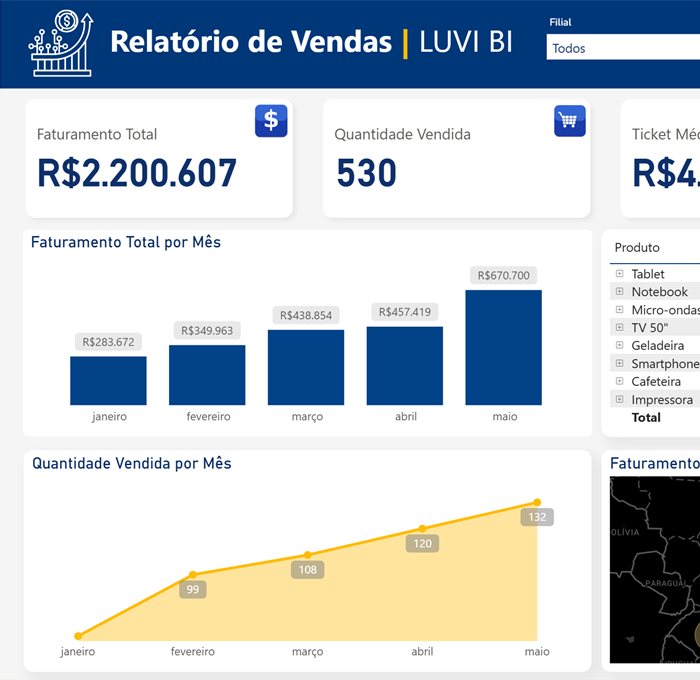
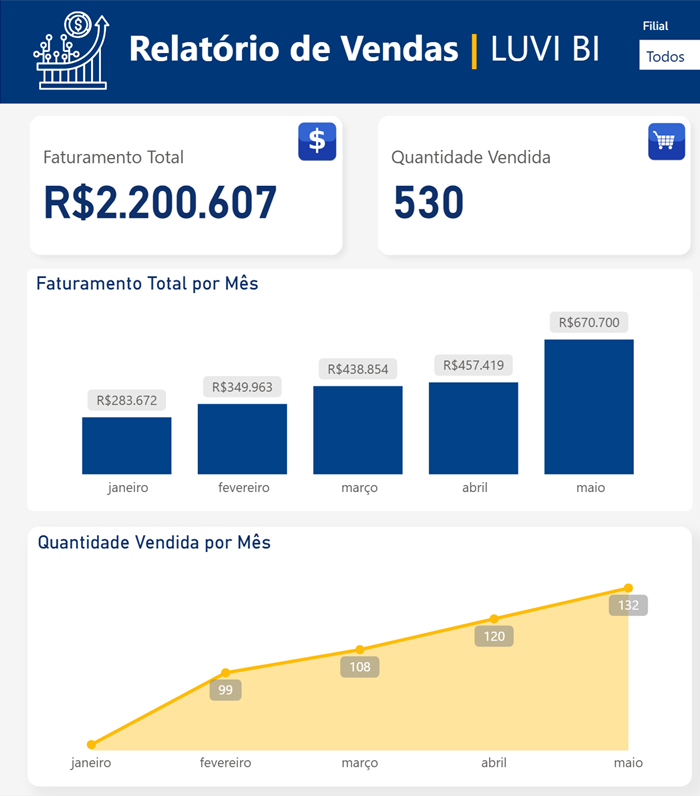
21321

diff --git a/index.html b/index.html
@@ -50,6 +50,15 @@
   .hero__kicker { display: flex; align-items: center; gap: 8px; font-size: 14px; font-weight: 500; color: #f0c964; }
   .hero__kicker .dot { background: #e6b53c; }
   h1 em { font-style: normal; color: #f0c964; }
+  /* the three reference sites show the dashboard in a device: a dark tablet bezel drawn over the edge of the picture and of the live report */
+  .hero__media::after, .pbi::after { content: ""; position: absolute; inset: 0; border-radius: inherit; pointer-events: none; z-index: 2;
+    box-shadow: inset 0 0 0 11px #0b1620, inset 0 0 0 12px rgba(255,255,255,.14); }
+  .hero__media { border-radius: 26px; }
+  @media (min-width: 640px) { #desafios .rows > li { min-height: 118px; align-content: start; } }
+  .pbi { border-radius: 22px; }
+  /* the old site's hero: navy gradient with a faint gold glow */
+  .hero.ground-inverse { background: radial-gradient(ellipse at 72% 38%, rgba(230,181,60,.12) 0%, transparent 58%), linear-gradient(135deg, #234b73 0%, #2f5c87 55%, #3d6a96 100%); }
+  .close__word { line-height: .9; overflow: visible; }
   .nav .logo-tile { padding: 4px 10px; }
   .nav .logo-tile .brand-logo { height: 38px; }
   /* the client's logo is a PNG with its own colours: on the dark footer it sits on a light tile */
@@ -63,7 +72,10 @@
   /* from 640px the live report replaces the still; a phone keeps the still and the full-screen link */
   html.pbi-live .pbi iframe { display: block; }
   html.pbi-live .pbi > img { display: none; }
-  @media (max-width: 639px) { .pbi { aspect-ratio: 700 / 552; } #processo .frame--fill { flex: none !important; height: 40svh; min-height: 0; } #processo .rows > li { padding-block: clamp(10px, 2.6svh, 22px); min-height: 22svh; } #processo .frame__img { object-position: 0 0; } }
+  /* every report loads when the page opens and sits at full size under the one on show, so swapping rows has no wait */
+  .pbi-stack { position: relative; }
+  html.pbi-live .pbi[hidden] { display: block; position: absolute; top: 0; left: 0; width: 100%; visibility: hidden; pointer-events: none; }
+  @media (max-width: 639px) { .pbi { aspect-ratio: 700 / 552; } #processo .frame--fill { flex: none !important; height: 40svh; min-height: 0; }  #processo .rows > li { padding-block: clamp(10px, 2.6svh, 22px); min-height: 22svh; } #desafios .rows > li { padding-block: clamp(10px, 2.6svh, 22px); min-height: 27svh; align-content: start; } #desafios .frame { aspect-ratio: 4 / 3 !important; } @media (max-height: 700px) { #desafios .rows > li { min-height: 18svh; } } #processo .frame__img, #desafios .frame__img { object-position: 0 0; } }
   @media (max-width: 380px) { .nav .brand-logo { height: 30px; } .nav .logo-tile { padding: 4px 8px; } .nav:not(.is-open) .nav__actions { display: none; } .nav:not(.is-open) .nav__toggle { margin-left: auto; } }
   #dados .panel { --p-h: 380px; --ground-bg: #234b73; --ground-surface: #2f5c87; --ground-ink: #f6f8fb; --ground-muted: #c3d0de; --ground-accent: #e6b53c; }
   @media (max-width: 639px) { #dados .panel { --p-h: 360px; } }
@@ -71,7 +83,7 @@
 </head>
 <body>
 <!-- type: service
-     deal: hero split (a dashboard still, cover-cropped), nav nav-centre, footer footer-dark, close close-word without the name (no photograph to show), rhythm dark-band (the data section), buttons block, mark: the client's own logo
+     deal: hero split (a dashboard still, cover-cropped), nav nav-centre, footer footer-dark, close close-word with the name across the wrap, rhythm dark-band (the data section), buttons block, mark: the client's own logo
      moments: word-highlight in its own statement section
      palette: the old site's own navy, gold and pale blue, with its DM Serif Display and Sora pair, at the client's request; hero, nav and footer on the navy, the rest on the pale ground -->
 
@@ -107,9 +119,29 @@
         </div>
       </div>
       <div class="hero__media span-7 start-6">
-        <img src="img/painel-vendas.png" srcset="img/painel-vendas-700.png 700w, img/painel-vendas.png 1100w" sizes="(max-width: 639px) 100vw, 737px" alt="Relatório de Vendas da LUVI BI: faturamento total, vendas por mês e faturamento por vendedor" style="--ly-pos: 0% 0%" width="1100" height="1069" fetchpriority="high" data-source="client" data-subject="o relatório de vendas da LUVI BI">
+        <img src="img/painel-vendas.png" srcset="img/painel-vendas-700.png 700w, img/painel-vendas.png 1100w" sizes="(max-width: 639px) 100vw, 737px" alt="Relatório de Vendas da LUVI BI: faturamento total, vendas por mês e faturamento por vendedor" style="--ly-pos: 0% 0%" width="1100" height="1250" fetchpriority="high" data-source="client" data-subject="o relatório de vendas da LUVI BI">
       </div>
     </div></div>
+  </section>
+
+  <section class="section ground-surface" id="desafios" style="--hm: 2" aria-labelledby="desafios-h">
+    <div class="wrap">
+      <div class="section-head">
+        <h2 id="desafios-h">Desafios de gerir sem dashboard</h2>
+        <p>Os problemas que levam uma empresa a procurar consultoria em Power BI.</p>
+      </div>
+      <div class="grid grid--top fill">
+        <ul class="rows span-5">
+          <li><span class="rows__name">Relatórios feitos à mão</span><p>Planilhas montadas a cada fechamento, com retrabalho e risco de erro.</p></li>
+          <li><span class="rows__name">Dados em sistemas separados</span><p>ERP, planilhas e bancos de dados, cada um com a sua versão do número.</p></li>
+          <li><span class="rows__name">Decisão sem número atualizado</span><p>A diretoria pede um indicador e a resposta leva dias.</p></li>
+          <li><span class="rows__name">Painel lento ou pouco confiável</span><p>Relatórios que demoram a abrir e deixam dúvida sobre o número.</p></li>
+        </ul>
+        <div class="frame frame--photo span-7 start-6" style="aspect-ratio: 1100 / 619">
+          <img class="frame__img" src="img/painel-financeiro.png" srcset="img/painel-financeiro-700.png 700w, img/painel-financeiro.png 1100w" sizes="(max-width: 639px) 200vw, 737px" loading="lazy" alt="Dashboard Financeiro da LUVI BI: faturamento, custos, resultado e margem líquida" width="1100" height="619" data-source="client" data-subject="o dashboard financeiro da LUVI BI">
+        </div>
+      </div>
+    </div>
   </section>
 
   <section class="section" id="paineis" style="--hm: 2" aria-labelledby="paineis-h">
@@ -124,7 +156,7 @@
           <li data-peek-to="financeiro" tabindex="0"><span class="rows__name">Dashboard Financeiro</span><p>Resultado, margem líquida, custos fixos e variáveis por centro de custo. <a class="link" href="https://app.powerbi.com/view?r=eyJrIjoiNmM2NDA1ODMtODczMS00ZjI1LWE0MTItMjM0OGRjOWE5YmIwIiwidCI6IjVkODBhYzkwLTllOTQtNGRjYi1iYzE4LTRiYjA1M2M2M2Y1ZCJ9" target="_blank" rel="noopener">Ver finanças em tela cheia</a></p><span class="rows__value">Financeiro</span></li>
           <li data-peek-to="estoque" tabindex="0"><span class="rows__name">Controle de Estoque</span><p>Entradas, saídas, posição por produto e giro de estoque por trimestre. <a class="link" href="https://app.powerbi.com/view?r=eyJrIjoiNmY0MjVlMGQtMDA2Ny00NjFkLWI3NzgtZDcyYjVmZDM0ZDIzIiwidCI6IjVkODBhYzkwLTllOTQtNGRjYi1iYzE4LTRiYjA1M2M2M2Y1ZCJ9" target="_blank" rel="noopener">Ver estoque em tela cheia</a></p><span class="rows__value">Operações</span></li>
         </ul>
-        <div class="span-7 start-6">
+        <div class="span-7 start-6 pbi-stack">
           <div class="pbi" data-peek-for="vendas"><img src="img/painel-vendas-m.png" alt="Relatório de Vendas da LUVI BI, versão para celular" width="700" height="552" loading="lazy" data-source="client" data-subject="o relatório de vendas da LUVI BI"><iframe title="Relatório de Vendas, painel Power BI ao vivo" data-src="https://app.powerbi.com/view?r=eyJrIjoiN2Q1NjMwODQtZjM2YS00NmMwLWFjMGEtMWJhYmZmY2ViYzAwIiwidCI6IjVkODBhYzkwLTllOTQtNGRjYi1iYzE4LTRiYjA1M2M2M2Y1ZCJ9" allowfullscreen></iframe></div>
           <div class="pbi" data-peek-for="financeiro" hidden><img src="img/painel-financeiro-m.png" alt="Dashboard Financeiro da LUVI BI, versão para celular" width="700" height="552" loading="lazy" data-source="client" data-subject="o dashboard financeiro da LUVI BI"><iframe title="Dashboard Financeiro, painel Power BI ao vivo" data-src="https://app.powerbi.com/view?r=eyJrIjoiNmM2NDA1ODMtODczMS00ZjI1LWE0MTItMjM0OGRjOWE5YmIwIiwidCI6IjVkODBhYzkwLTllOTQtNGRjYi1iYzE4LTRiYjA1M2M2M2Y1ZCJ9" allowfullscreen></iframe></div>
           <div class="pbi" data-peek-for="estoque" hidden><img src="img/painel-estoque-m.png" alt="Controle de Estoque da LUVI BI, versão para celular" width="700" height="552" loading="lazy" data-source="client" data-subject="o controle de estoque da LUVI BI"><iframe title="Controle de Estoque, painel Power BI ao vivo" data-src="https://app.powerbi.com/view?r=eyJrIjoiNmY0MjVlMGQtMDA2Ny00NjFkLWI3NzgtZDcyYjVmZDM0ZDIzIiwidCI6IjVkODBhYzkwLTllOTQtNGRjYi1iYzE4LTRiYjA1M2M2M2Y1ZCJ9" allowfullscreen></iframe></div>
@@ -179,6 +211,7 @@
         <div><h2 id="close-h">Chame a LUVI&nbsp;BI no WhatsApp</h2><p class="t-lead">Conte onde estão seus dados e qual decisão precisa de mais clareza.</p></div>
         <a class="btn btn--primary" href="https://wa.me/5548991390796" target="_blank" rel="noopener">Chamar no WhatsApp<svg class="m-arrow" viewBox="0 0 12 12" aria-hidden="true"><path class="m-arrow__stem" d="M1 6h8"/><path class="m-arrow__head" d="M4.5 2.5 8 6l-3.5 3.5"/></svg></a>
       </div>
+      <p class="close__word" aria-hidden="true">LUVI BI</p>
     </div>
     <div class="closing__links">
       <div class="grid">
@@ -201,16 +234,14 @@
 <script type="module" src="assets/layout/layout.js"></script>
 <script type="module" src="assets/diagrams/mount.js"></script>
 <script>
-  /* from 640px the Power BI reports run live, each loaded when its row is first shown, as the original tabs did;
+  /* from 640px the Power BI reports run live, all loaded when the page opens, so a swap shows no wait;
      a phone keeps the still of each report and the full-screen link, so it never loads three embeds */
   if (window.matchMedia('(min-width: 640px)').matches) {
     document.documentElement.classList.add('pbi-live');
     document.querySelectorAll('.pbi[data-peek-for]').forEach(function (box) {
       var f = box.querySelector('iframe[data-src]');
       if (!f) return;
-      var load = function () { if (!box.hidden && !f.src) f.src = f.dataset.src; };
-      load();
-      new MutationObserver(load).observe(box, { attributes: true, attributeFilter: ['hidden'] });
+      f.src = f.dataset.src;
     });
   }
 </script>
